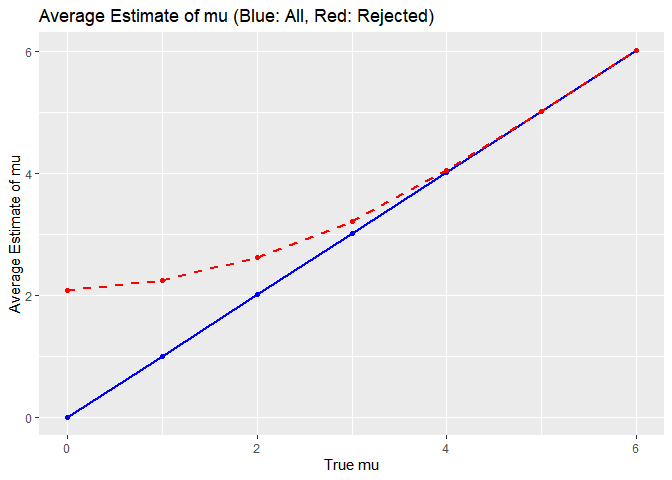
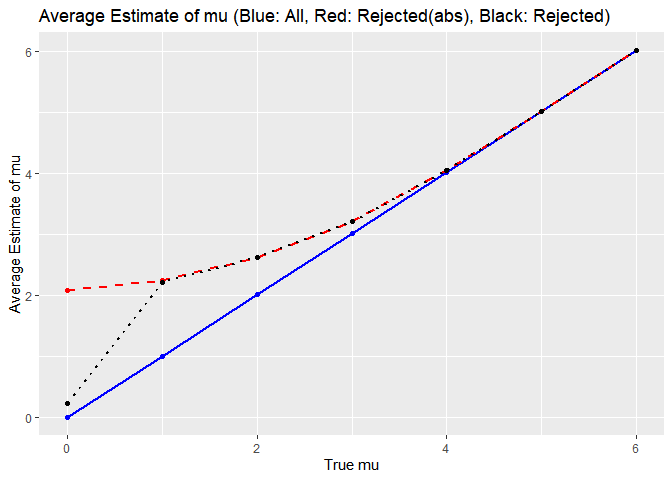
2nd commit

Changed region(s): [[0.625, 0.0, 0.9062, 0.0625], [0.7812, 0.2188, 0.8125, 0.25]]

diff --git a/p8105_hw5_ws2721.md b/p8105_hw5_ws2721.md
@@ -2,6 +2,10 @@ HW5
 ================
 2024-11-13
 
+``` r
+library(tidyverse)
+```
+
     ## ── Attaching core tidyverse packages ──────────────────────── tidyverse 2.0.0 ──
     ## ✔ dplyr     1.1.4     ✔ readr     2.1.5
     ## ✔ forcats   1.0.0     ✔ stringr   1.5.1
@@ -12,6 +16,12 @@ HW5
     ## ✖ dplyr::filter() masks stats::filter()
     ## ✖ dplyr::lag()    masks stats::lag()
     ## ℹ Use the conflicted package (<http://conflicted.r-lib.org/>) to force all conflicts to become errors
+
+``` r
+library(broom)
+
+set.seed(1)
+```
 
 # Problem 1
 
@@ -86,7 +96,6 @@ increases.
 mus = 0:6
 alpha = 0.05
 
-# Data storage
 results = data.frame()
 ```
 
@@ -116,18 +125,20 @@ power_results = results |>
 estimated_results = results |> 
   group_by(mu_true) |> 
   summarize(avg_mu_hat = mean((mu_hat)),
-            avg_mu_hat_rejected = mean(abs(mu_hat[rejected])))
+            avg_mu_hat_rejected_abs = mean(abs(mu_hat[rejected])),
+            avg_mu_hat_rejected = mean(mu_hat[rejected]))
 ```
 
 Then, run a loop that will conduct the t-test with the null hypothesis
 of mu = 0. Each iteration, it will test 5000 times with sample data with
 n = 30, standard deviation = 5, consists of random mean that is from
 true mean of 0 through 6. Then I made 2 data frame that calculates power
-and another data frame that has average of all sample mean and average
-of the rejected mean by their true mean. I made the mu_hat average to be
-absolute value because negative values could even out the numbers to be
-closer to true mu, therefore hard to see true parameters of the mean
-rejected values.
+and another data frame that has average of all sample mean by their true
+mean, average absolute value of the rejected mean by their true mean,
+average value of the rejected mean by their true mean. The reason I made
+the mu_hat average to be absolute value is that negative values could
+even out the numbers to be closer to true mu, therefore hard to see true
+parameters of the mean rejected values.
 
 ``` r
 ggplot(power_results, aes(x = mu_true, y = power)) +
@@ -147,10 +158,12 @@ increases.It shows the highest increase between the true mean of 1 to 3.
 ggplot(estimated_results, aes(x = mu_true)) +
   geom_line(aes(y = avg_mu_hat), color = "blue", linetype = "solid", size = 1) +
   geom_point(aes(y = avg_mu_hat), color = "blue") +
-  geom_line(aes(y = avg_mu_hat_rejected), color = "red", linetype = "dashed", size = 1) +
-  geom_point(aes(y = avg_mu_hat_rejected), color = "red") +
+  geom_line(aes(y = avg_mu_hat_rejected_abs), color = "red", linetype = "dashed", size = 1) +
+  geom_point(aes(y = avg_mu_hat_rejected_abs), color = "red") + 
+  geom_line(aes(y = avg_mu_hat_rejected), color = "black", linetype = "dotted", size = 1) +
+  geom_point(aes(y = avg_mu_hat_rejected), color = "black") +
   labs(x = "True mu", y = "Average Estimate of mu",
-       title = "Average Estimate of mu (Blue: All, Red: Rejected)")
+       title = "Average Estimate of mu (Blue: All, Red: Rejected(abs), Black: Rejected)")
 ```
 
     ## Warning: Using `size` aesthetic for lines was deprecated in ggplot2 3.4.0.
@@ -161,18 +174,29 @@ ggplot(estimated_results, aes(x = mu_true)) +
 
 ![](p8105_hw5_ws2721_files/figure-gfm/unnamed-chunk-9-1.png)<!-- -->
 
-The red dashed line shows the sample average that rejected the t-test by
-their true average.
+The Blue line shows the mean of sample average. The Red line shows the
+absolute value of the mean of the null rejected sample average. The
+Black line shows the mean of the null rejected sample average.
 
-z-value equation for sample size bigger than or equal to 30: z = (x-mu)
-/ (sigma/sqrt(n))
+For alpha = 0.05 for two tailed test, if the z-value exceeds 1.96 or
+-1.96, they reject the null hypothesis. If we apply this concept to the
+result of the graph, it explains the graph. z-value equation for sample
+size bigger than or equal to 30: z = (x-mu) / (sigma/sqrt(n)) Since we
+know the rejection z -value for alpha = 0.05, x, sigma, n we can
+calculate the absolute value of mu to reject the null hypothesis.
 
-For alpha = 0.05 for two tailed test, if the z-value exceeds 1.96, they
-reject the null hypothesis. If we apply this concept to the result of
-the graph, it explains the graph. You could see all the rejected mean
-values all exceed 1.96. We can see the sample average of mu_hat across
-the test for which the null is rejected approximately equal to the true
-value of mu starting from True_mu = 2.
+z = 1.96, sigma = 5, n = 30
+
+Absolute value: For x = 0, mu = 1.789 The red graph the average estimate
+of mu is all above 1.789.
+
+The blue graph is self-explanatory, as True mu increases, the average
+estimate of mu follows. The Black graph, True mu = 0 has null rejected
+sample average of around 0. If we think about that, because the true mu
+is 0 and sample is normally distributed. The rejected mean is calculated
+of both negative side and positive side and it shows a value close to 0.
+Starting from True mu = 1, it starts to follow the red graph as it has
+significantly lower chance to reject the null as a negative value.
 
 # Problem 3
 
@@ -197,7 +221,18 @@ homicide = homicide_data |>
     total_homicides = n(),
     unsolved_homicides = sum(disposition %in% c("Closed without arrest", "Open/No arrest"))
   )
+```
 
+The raw data consists of unique ID, reported date, the information of
+the victim, location, and the status of the case resolution
+(disposition). I have merged city and state to make another variable
+called city_state.
+
+Then. I have made a data frame called “homicide” that counts all the
+cases and unsolved cases that happended in the location of which city
+and state.
+
+``` r
 baltimore = homicide |> 
   filter(city_state == "Baltimore, MD")
 
@@ -206,6 +241,22 @@ baltimore_prop_test = broom::tidy(prop.test(baltimore$unsolved_homicides, baltim
 baltimore_estimate = baltimore_prop_test |> 
   select(estimate, conf.low, conf.high)
 
+baltimore_estimate
+```
+
+    ## # A tibble: 1 × 3
+    ##   estimate conf.low conf.high
+    ##      <dbl>    <dbl>     <dbl>
+    ## 1    0.646    0.628     0.663
+
+I first filtered the location of interest, Baltimore, MD. Then,
+conducted the proportion test to get the estimate and the confidence
+interval.
+
+The estimate is 0.646 with the confidence interval between 0.628 and
+0.663.
+
+``` r
 city_proportions = homicide |> 
   mutate(
     prop_test = map2(unsolved_homicides, total_homicides, ~ prop.test(.x, .y) |> 
@@ -234,4 +285,14 @@ ggplot(city_proportions, aes(x = reorder(city_state, estimate), y = estimate)) +
   theme_minimal()
 ```
 
-![](p8105_hw5_ws2721_files/figure-gfm/unnamed-chunk-10-1.png)<!-- -->
+![](p8105_hw5_ws2721_files/figure-gfm/unnamed-chunk-12-1.png)<!-- -->
+
+Now, I applied the proportion test to every location in the data. As
+instructed, I did this within a “tidy” pipeline, making use of map2,
+list columns and unnest to create a tidy dataframe with estimated
+proportions and confidence intervals for each city.
+
+From the plot, we can see that Chicago, IL has the highest proportion of
+unsolved homicides and Richmond, VA the lowest, I didn’t consider Tulsa,
+AL as a lowest because it only had 1 case with 0 unsolved homicide.
+Tulsa, AL didn’t have not enough information.
